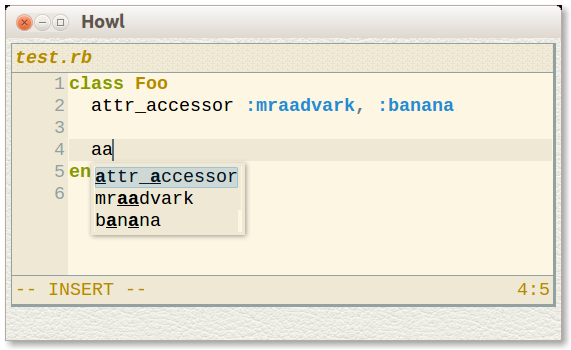
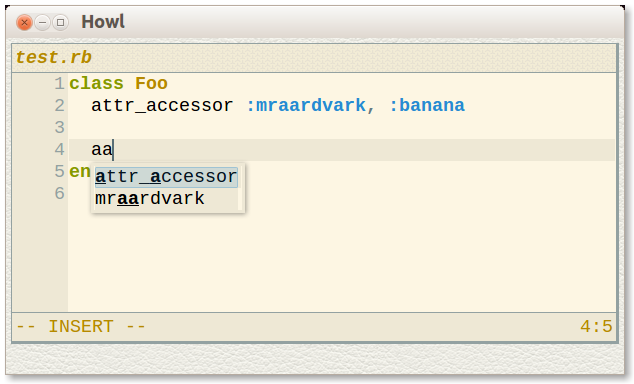
Update the doc to remove mentions of fuzzy matching

Changed region(s): [[0.0, 0.0, 0.9825, 1.0], [0.9825, 0.0286, 1.0, 0.0571]]

diff --git a/site/source/doc/manual/getting-started.md b/site/source/doc/manual/getting-started.md
@@ -4,66 +4,129 @@ title: Getting started
 
 # Getting started
 
-So you've installed Howl, but how do you actually use it? (if you haven't installed it yet, see the [instructions](/getit.html) here). As you might have read earlier, Howl is rather minimalistic when it comes to the user interface, and it prefers text-based interfaces over the traditional graphical ones. As such, you will not find the typical menu or toolbar that might otherwise help you get started with other applications. In this section we'll look at the basic concepts of Howl, which will hopefully help you get a better understanding of what Howl is and how you can use it.
+So you've installed Howl, but how do you actually use it? (if you haven't
+installed it yet, see the [instructions](/getit.html) here). As you might have
+read earlier, Howl is rather minimalistic when it comes to the user interface,
+and it prefers text-based interfaces over the traditional graphical ones. As
+such, you will not find the typical menu or toolbar that might otherwise help
+you get started with other applications. In this section we'll look at the basic
+concepts of Howl, which will hopefully help you get a better understanding of
+what Howl is and how you can use it.
 
 ## The visual components
 
-To begin with, let's examine the basic visual components that you see when you use Howl. Using one of the screen shots as an example:
+To begin with, let's examine the basic visual components that you see when you
+use Howl. Using one of the screen shots as an example:
 
 ![Visual components](doc/visual-components.png)
 
-As per the above image, the three basic visual components are windows, views and the readline.
+As per the above image, the three basic visual components are windows, views and
+the readline.
 
 ### Windows
 
-When you start up Howl you'll see one window, containing everything else. You could potentially have multiple windows open for the same Howl instance, even though this is not well-tested at the current time.
+When you start up Howl you'll see one window, containing everything else. You
+could potentially have multiple windows open for the same Howl instance, even
+though this is not well-tested at the current time.
 
 ### Views (Editors)
 
-A window can contain an arbitrary number of views, which are any type of graphical component. Currently there are only type of view available, called an "editor". Editors are the source editing components you'll work with most of the time. Editors themselves contain other visual components, such as header and footer components with "indicators" used for displaying for example the current position in the file. An editor always displays exactly one [buffer](#buffers). As can be seen in one of the [screen hots](/images/screenshots/howl-solarized.png) it's possible to have multiple views/editors along each other in the same window.
+A window can contain an arbitrary number of views, which are any type of
+graphical component. Currently there are only type of view available, called an
+"editor". Editors are the source editing components you'll work with most of the
+time. Editors themselves contain other visual components, such as header and
+footer components with "indicators" used for displaying for example the current
+position in the file. An editor always displays exactly one [buffer](#buffers).
+As can be seen in one of the [screen
+shots](/images/screenshots/howl-solarized.png) it's possible to have multiple
+views/editors along each other in the same window.
 
 ### Readline
 
-The readline component is where you enter your commands. As we will see, commands are the primary way of interacting with Howl, used for mostly anything within Howl. The readline allows you to input these commands, and provides completions as necessary.
+The readline component is where you enter your commands. As we will see,
+commands are the primary way of interacting with Howl, used for mostly anything
+within Howl. The readline allows you to input these commands, and provides
+completions as necessary.
 
 ## Other basic concepts
 
 ### Buffers
 
-Buffers are what you work with when you edit. Buffers are typically associated with a file, used for storing the buffer contents on disk. This is not necessarily the case however, as buffers can just as well exist without any association to a given file (consider for instance the "Untitled" buffer you see when you first open Howl without passing any arguments). You can have as many buffers open as you want, only limited by the amount of available memory. You can choose to display a given buffer in an existing editor by switching buffers (via the `switch-buffer` command).
+Buffers are what you work with when you edit. Buffers are typically associated
+with a file, used for storing the buffer contents on disk. This is not
+necessarily the case however, as buffers can just as well exist without any
+association to a given file (consider for instance the "Untitled" buffer you see
+when you first open Howl without passing any arguments). You can have as many
+buffers open as you want, only limited by the amount of available memory. You
+can choose to display a given buffer in an existing editor by switching buffers
+(via the `switch-buffer` command).
 
 ### Modes
 
-All buffers have a mode associated with them. Modes handles everything language/format specific for a certain buffer, such as indentation support, syntax highlighting, etc. Modes are typically assigned to a buffer automatically, e.g. when a file is opened a mode is automatically selected based on the file's extension, etc.
+All buffers have a mode associated with them. Modes handles everything
+language/format specific for a certain buffer, such as indentation support,
+syntax highlighting, etc. Modes are typically assigned to a buffer
+automatically, e.g. when a file is opened a mode is automatically selected based
+on the file's extension, etc.
 
 ### Key bindings
 
-Key bindings are used for triggering certain actions whenever a certain key combination is entered. Actions are typically commands, but can also be custom functions.
+Key bindings are used for triggering certain actions whenever a certain key
+combination is entered. Actions are typically commands, but can also be custom
+functions.
 
 ### Signals
 
-Signals are fired as a result of different actions within Howl, and provides a generic way of receiving notification. You could for instance register to be notified whenever a buffer was saved.
+Signals are fired as a result of different actions within Howl, and provides a
+generic way of receiving notification. You could for instance register to be
+notified whenever a buffer was saved.
 
 ## Entering commands
 
 ### Manual entry
 
-As said previously, most interactions with Howl will typically be the result of a command. So let's gets started with manually entering some basic commands. To enter you first command, you need to open the readline. In the default keymap, this is "bound" (mapped) to the `alt+x` key combination, so enter that to open the readline. You should now see the readline being opened, awaiting your command. If you want to, press `tab` to bring up a completion list of available commands.
+As said previously, most interactions with Howl will typically be the result of
+a command. So let's gets started with manually entering some basic commands. To
+enter you first command, you need to open the readline. In the default keymap,
+this is "bound" (mapped) to the `alt+x` key combination, so enter that to open
+the readline. You should now see the readline being opened, awaiting your
+command. If you want to, press `tab` to bring up a completion list of available
+commands.
 
-As an example, let's open a file for editing. Enter `open` and press `space` to open a file. You will automatically be presented with completions. Navigate up and down the directory tree as needed, using `backspace` and `enter`, and press `enter` once you've found the file you wanted.
+As an example, let's open a file for editing. Enter `open` and press `space` to
+open a file. You will automatically be presented with completions. Navigate up
+and down the directory tree as needed, using `backspace` and `enter`, and press
+`enter` once you've found the file you wanted.
 
 #### Using completions
 
-Completions are available within the readline, using the `tab` key. Completions are enabled by default for most commands as you will see, but they are not automatically shown when entering commands. To explicitly request completions of the available commands, press `tab`. To cancel completions, press `escape`. For commands that want some kind of hierarchal input, such as file commands, pressing `backspace` when at the beginning of a prompt allows you to move up in the hierarchy.
+Completions are available within the readline, using the `tab` key. Completions
+are enabled by default for most commands as you will see, but they are not
+automatically shown when entering commands. To explicitly request completions of
+the available commands, press `tab`. To cancel completions, press `escape`. For
+commands that want some kind of hierarchal input, such as file commands,
+pressing `backspace` when at the beginning of a prompt allows you to move up in
+the hierarchy.
 
-The completion list will automatically filter itself to match whatever you type in the readline. It's not necessary to enter text precisely matching any available option, as the matching is fuzzy.
+The completion list will automatically filter itself to match whatever you type
+in the readline.
 
 ### Using keyboard shortcuts
 
-Manually entering commands is typically not something you want to do for commands that you invoke often. Unsurprisingly, any command can be bound to a key combination as well. Howl comes with a default keymap for the most basic bindings (not complete by any measure, so please suggest missing additions). So in the previous example, you could have more quickly opened a file using the `ctrl+o` key binding. Assigning your own combinations is easy, and will be discussed later on in the manual. *Note*: If you bring up the completion list at the command prompt, you'll see that it includes the key bindings for the listed commands when available.
+Manually entering commands is typically not something you want to do for
+commands that you invoke often. Unsurprisingly, any command can be bound to a
+key combination as well. Howl comes with a default keymap for the most basic
+bindings (not complete by any measure, so please suggest missing additions). So
+in the previous example, you could have more quickly opened a file using the
+`ctrl+o` key binding. Assigning your own combinations is easy, and will be
+discussed later on in the manual. *Note*: If you bring up the completion list at
+the command prompt, you'll see that it includes the key bindings for the listed
+commands when available.
 
 *VI users*:
 
-Howl ships with a basic VI bundle, which you can activate with the `vi-on` command. It's rather incomplete at this point and will be improved, but contains at least some of the basic editing functionality.
+Howl ships with a basic VI bundle, which you can activate with the `vi-on`
+command. It's rather incomplete at this point and will be improved, but contains
+at least some of the basic editing functionality.
 
 *Next*: [Configuring Howl](configuration.html)

diff --git a/site/source/doc/manual/completions.md b/site/source/doc/manual/completions.md
@@ -44,20 +44,18 @@ completion list is the same:
   move one page down.
 
 When completing, Howl will try to match your input string against the available
-completions in three ways: _Exact matching_, _boundary matching_ and _fuzzy
-matching_. An exact match means that your input string is found as-is in the
-completion. A boundary match means that your input string matches at one or more
+completions in two ways: _Exact matching_ and _boundary matching_. An exact
+match means that your input string is found as-is in the completion. A boundary
+match means that all parts of your input string matches at one or more
 boundaries in the completion, typically defined as underscores, slashes, etc.
-Finally, fuzzy matching means that all characters in your input string matched
-somewhere in the completion (in order). The below image illustrates all three
-types of matches for a completion list:
+The below image illustrates the two different types of matches for a completion
+list:
 
 ![Completion types](/images/doc/completion_types.png)
 
 In the above example we can see that "aa" matches "attr_accessor" as a boundary
-match, "mraardvark" as an exact match, and finally "banana" as a fuzzy match.
-The order of the completions above is no coincidence - boundary matches are
-preferred over exact matches, which are preferred over fuzzy matches.
+match, while "mraardvark" is an exact match. The order of the completions above
+is no coincidence - boundary matches are preferred over exact matches.
 
 *Finally, a note about a gotcha:*
 
